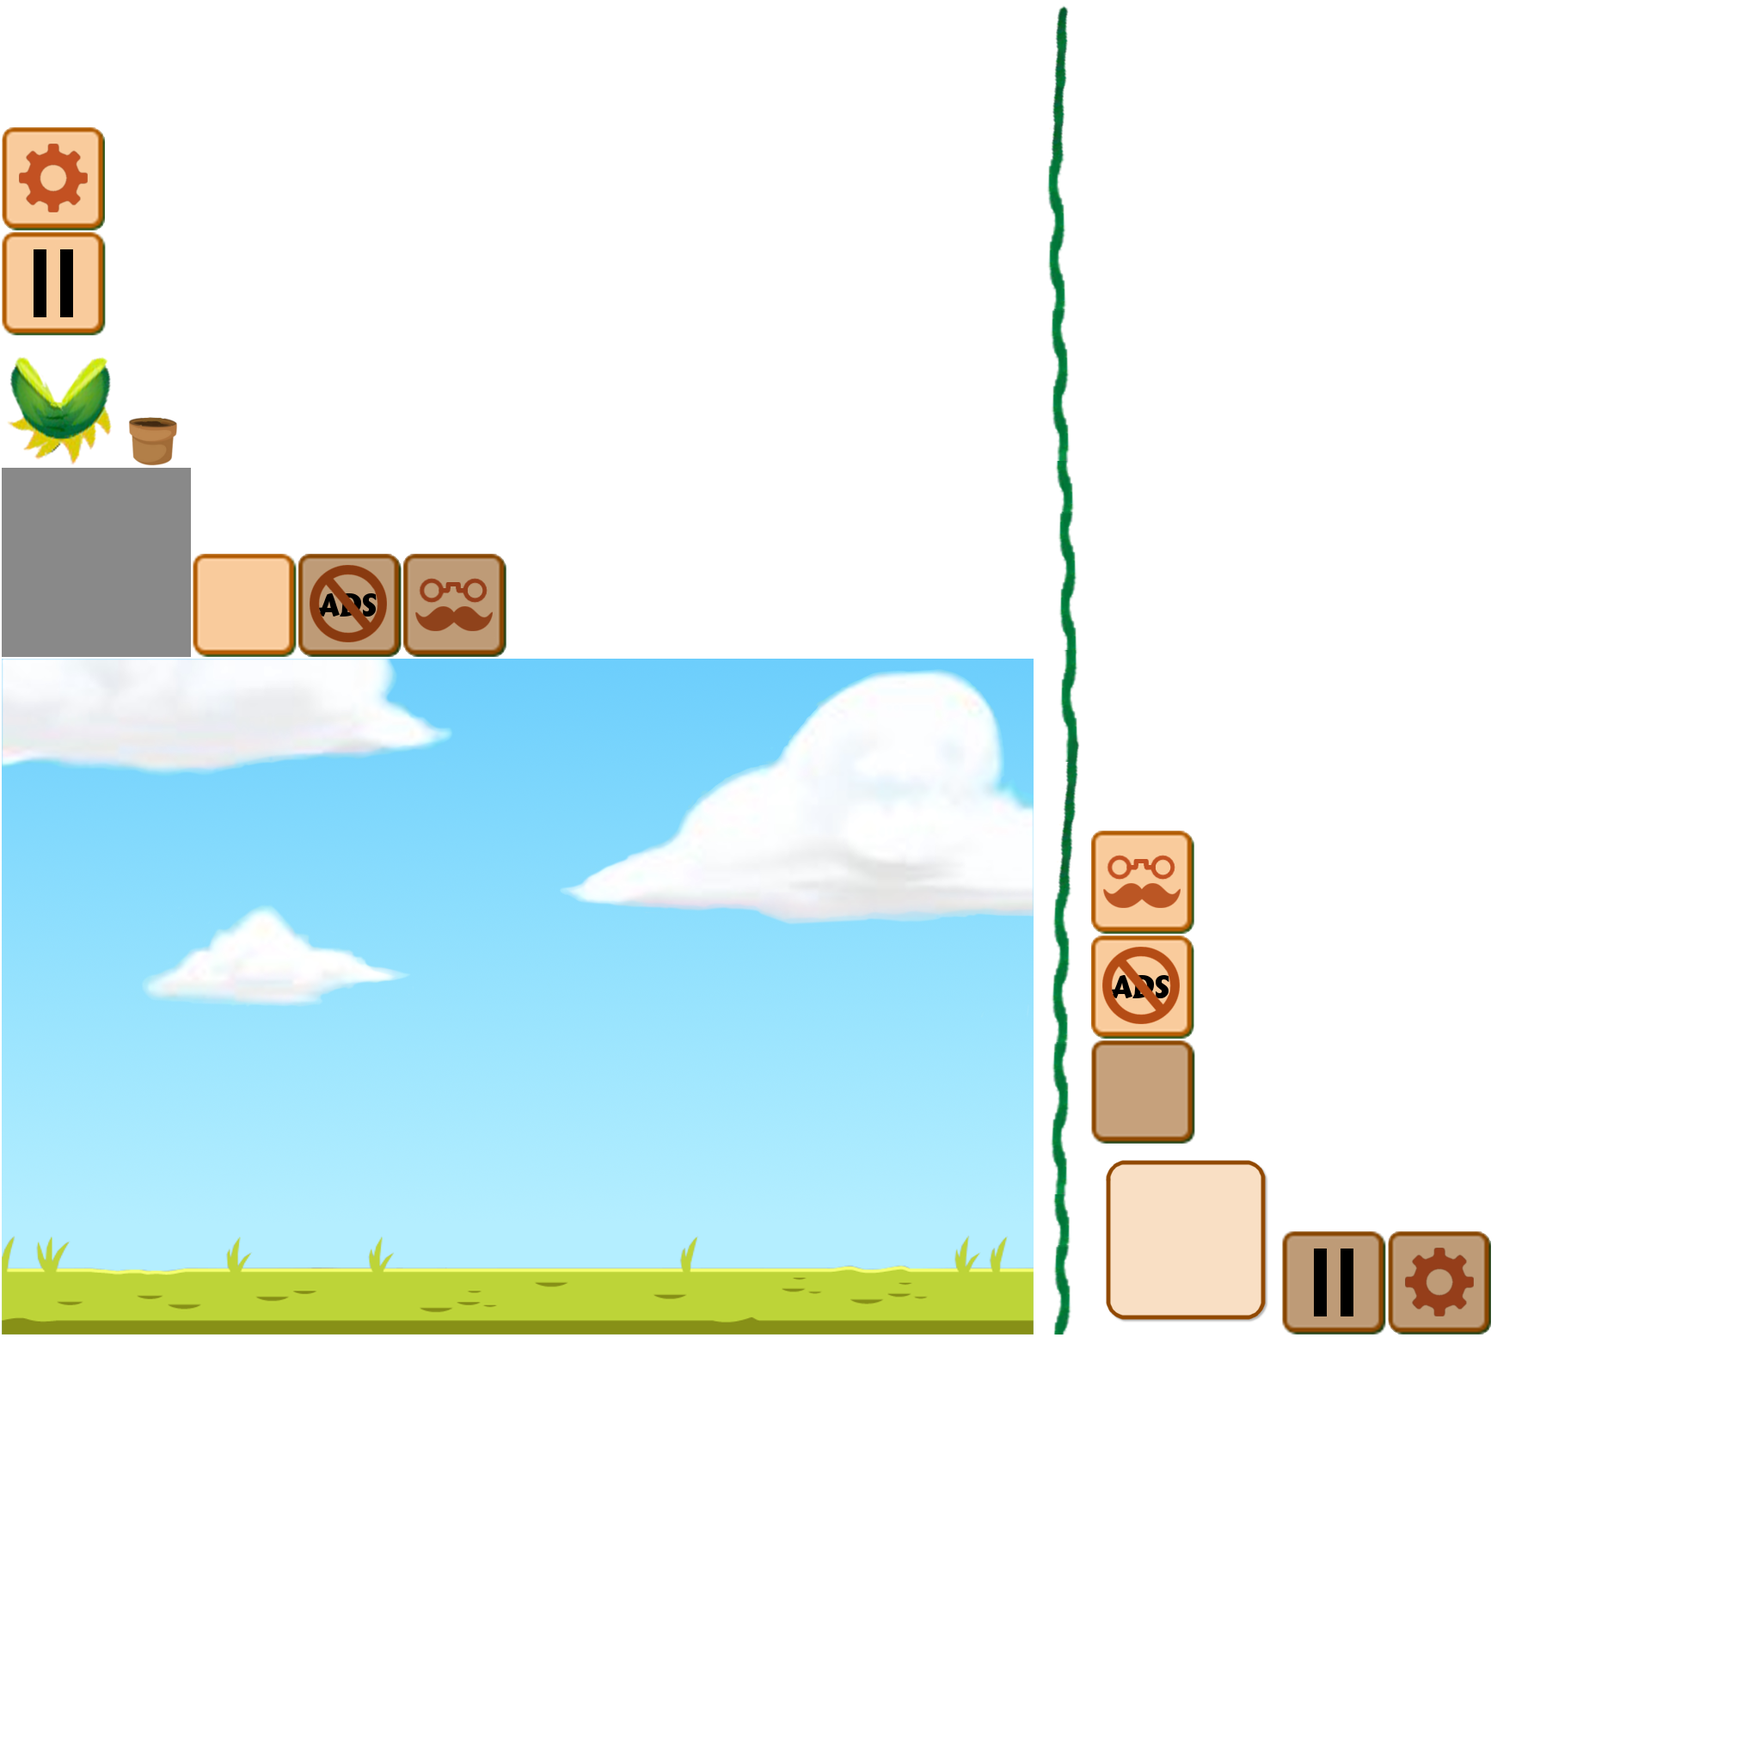
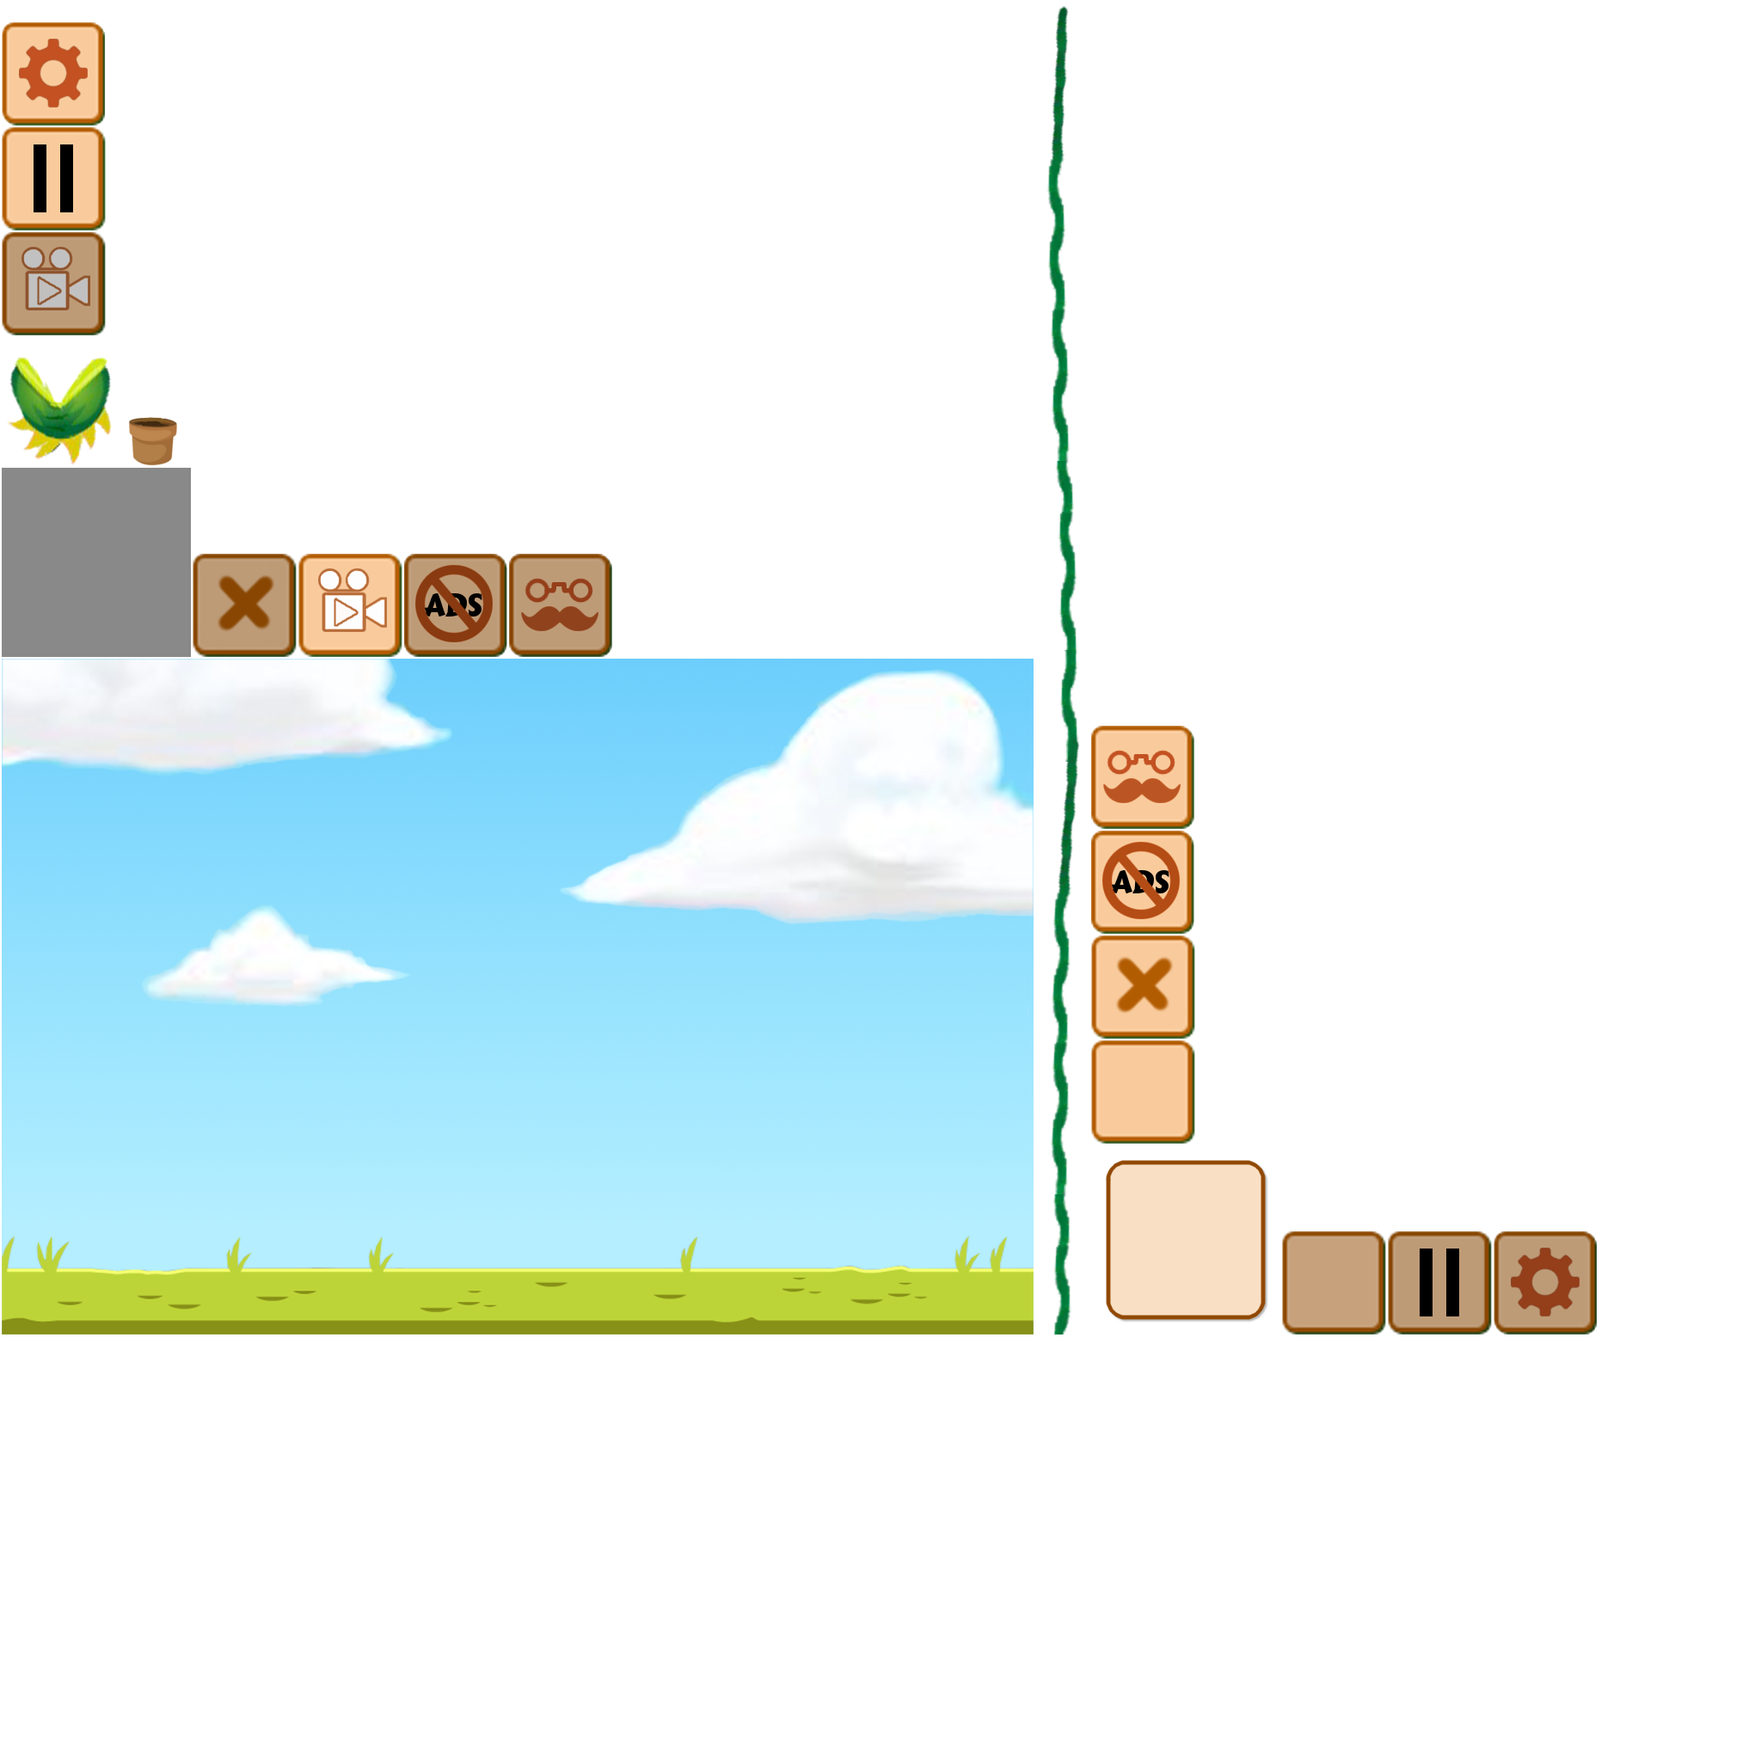
* Bug Fixed: Resumes after dead

diff --git a/core/src/game/stages/GameScreenScript.java b/core/src/game/stages/GameScreenScript.java
@@ -42,9 +42,14 @@ public class GameScreenScript implements IScript {
     public int dandelionSpawnCounter;
     public int cacoonSpawnCounter;
 
+    private int aniTimer = 0;
+    private String aniName;
+    private boolean isPlayAny = false;
     private boolean pausePressed = false;
     private CompositeItem pausePopUp;
+    private CompositeItem gameoverPopUp;
     private CompositeItem backShadow;
+    private int gameOverCountDown = 300;
 
     public GameScreenScript(GameStage stage) {
         this.stage = stage;
@@ -56,10 +61,19 @@ public class GameScreenScript implements IScript {
 
         pausePopUp = gameItem.getCompositeById("pop-up_pause");
         pausePopUp.setVisible(false);
+        gameoverPopUp = gameItem.getCompositeById("pop-up_gameover");
+        gameoverPopUp.setVisible(false);
         backShadow = gameItem.getCompositeById("backShadow");
         backShadow.setVisible(false);
+        pausePopUp.setColor(1,1,1,0);
+        gameoverPopUp.setColor(1,1,1,0);
+        backShadow.setColor(1,1,1,0);
+
         dandelionSpawnCounter = random.nextInt(GlobalConstants.DANDELION_SPAWN_CHANCE_MAX - GlobalConstants.DANDELION_SPAWN_CHANCE_MIN) + GlobalConstants.DANDELION_SPAWN_CHANCE_MIN;
         cacoonSpawnCounter = random.nextInt(GlobalConstants.COCOON_SPAWN_MAX - GlobalConstants.COCOON_SPAWN_MIN) + GlobalConstants.COCOON_SPAWN_MIN;
+
+        final CompositeItem gameoverPopUpCloseBtn = gameoverPopUp.getCompositeById("btn_close");
+        final CompositeItem gameoverPopUpVideoBtn = gameoverPopUp.getCompositeById("btn_vid");
         final CompositeItem pausePopUpContBtn = pausePopUp.getCompositeById("btn_continue");
         final CompositeItem pausePopUpExitBtn = pausePopUp.getCompositeById("btn_exit");
         final CompositeItem btnPause = gameItem.getCompositeById("btn_pause");
@@ -70,10 +84,8 @@ public class GameScreenScript implements IScript {
                     pointer, int button) {
                 btnPause.setLayerVisibilty("normal", false);
                 btnPause.setLayerVisibilty("pressed", true);
-                pausePopUp.setVisible(true);
-                backShadow.setVisible(true);
+                playUIAnimation(100, "pauseAppear");
 
-                GlobalConstants.GAME_PAUSED = true;
                 pausePressed = true;
 
                 return true;
@@ -92,10 +104,7 @@ public class GameScreenScript implements IScript {
                     pointer, int button) {
                 pausePopUpContBtn.setLayerVisibilty("normal", false);
                 pausePopUpContBtn.setLayerVisibilty("pressed", true);
-                pausePopUp.setVisible(false);
-                backShadow.setVisible(false);
-
-                GlobalConstants.GAME_PAUSED = false;
+                playUIAnimation(100, "pauseDisappear");
 
                 return true;
             }
@@ -113,11 +122,7 @@ public class GameScreenScript implements IScript {
                     pointer, int button) {
                 pausePopUpExitBtn.setLayerVisibilty("normal", false);
                 pausePopUpExitBtn.setLayerVisibilty("pressed", true);
-                pausePopUp.setVisible(false);
-                backShadow.setVisible(false);
-
-                stage.initMenu();
-                GlobalConstants.GAME_PAUSED = false;
+                playUIAnimation(100, "pauseExit");
 
                 return true;
             }
@@ -125,7 +130,43 @@ public class GameScreenScript implements IScript {
                                  int button) {
                 pausePopUpExitBtn.setLayerVisibilty("normal", true);
                 pausePopUpExitBtn.setLayerVisibilty("pressed", false);
+//
+                pausePressed = false;
+            }
+        });
+        gameoverPopUpVideoBtn.addListener(new ClickListener(){
+            // Need to keep touch down in order for touch up to work normal (libGDX awkwardness)
+            public boolean touchDown (InputEvent event, float x, float y, int
+                    pointer, int button) {
+                gameoverPopUpVideoBtn.setLayerVisibilty("normal", false);
+                gameoverPopUpVideoBtn.setLayerVisibilty("pressed", true);
+                playUIAnimation(100, "gameoverDisappear");
 
+                return true;
+            }
+            public void touchUp (InputEvent event, float x, float y, int pointer,
+                                 int button) {
+                gameoverPopUpVideoBtn.setLayerVisibilty("normal", true);
+                gameoverPopUpVideoBtn.setLayerVisibilty("pressed", false);
+
+                pausePressed = false;
+            }
+        });
+        gameoverPopUpCloseBtn.addListener(new ClickListener(){
+            // Need to keep touch down in order for touch up to work normal (libGDX awkwardness)
+            public boolean touchDown (InputEvent event, float x, float y, int
+                    pointer, int button) {
+                gameoverPopUpCloseBtn.setLayerVisibilty("normal", false);
+                gameoverPopUpCloseBtn.setLayerVisibilty("pressed", true);
+                playUIAnimation(100, "gameoverExit");
+
+                return true;
+            }
+            public void touchUp (InputEvent event, float x, float y, int pointer,
+                                 int button) {
+                gameoverPopUpCloseBtn.setLayerVisibilty("normal", true);
+                gameoverPopUpCloseBtn.setLayerVisibilty("pressed", false);
+//
                 pausePressed = false;
             }
         });
@@ -138,12 +179,141 @@ public class GameScreenScript implements IScript {
 
     @Override
     public void act(float delta) {
+        if(isPlayAny){
+            // Don't touch this
+            aniTimer--;
+            //
+
+            // Play gameover pop-up appear animation
+            if(aniName == "gameoverAppear"){
+                gameoverPopUp.setVisible(true);
+                backShadow.setVisible(true);
+
+                if(gameoverPopUp.getColor().a<1){
+                    gameoverPopUp.setColor(1,1,1,gameoverPopUp.getColor().a+0.1f); // Some sort of a formula would be good here
+                    backShadow.setColor(1,1,1,backShadow.getColor().a+0.1f); // like a formula that replaces 0.1f with a portion of aniTimer
+                }
+                if(gameoverPopUp.getColor().a==1){
+                    GlobalConstants.GAME_PAUSED = true;
+                }
+            }
+            //
+
+            // Play gameover pop-up disappear animation
+            if(aniName == "gameoverDisappear"){
+                if(gameoverPopUp.getColor().a>0){
+                    gameoverPopUp.setColor(1,1,1,gameoverPopUp.getColor().a-0.1f);
+                    backShadow.setColor(1,1,1,backShadow.getColor().a-0.1f);
+                }
+                if(gameoverPopUp.getColor().a==0){
+                    GlobalConstants.GAME_PAUSED = false;
+                    gameoverPopUp.setVisible(false);
+                    backShadow.setVisible(false);
+
+                    flower.setCurHp(3);
+                    gameOverCountDown = 300;
+                }
+            }
+            //
+
+            // Play gameover pop-up disappear animation with Exit
+            if(aniName == "gameoverExit"){
+                if(gameoverPopUp.getColor().a>0){
+                    gameoverPopUp.setColor(1,1,1,gameoverPopUp.getColor().a-0.1f);
+                    backShadow.setColor(1,1,1,backShadow.getColor().a-0.1f);
+                }
+                if(gameoverPopUp.getColor().a==0){
+                    GlobalConstants.GAME_PAUSED = false;
+                    gameoverPopUp.setVisible(false);
+                    backShadow.setVisible(false);
+
+                    flower.setCurHp(3);
+                    stage.initMenu();
+                    isPlayAny = false; // this is bad, think of a formula!
+                }
+            }
+            //
+
+            // Play pause pop-up appear animation
+            if(aniName == "pauseAppear"){
+                pausePopUp.setVisible(true);
+                backShadow.setVisible(true);
+
+                if(pausePopUp.getColor().a<1){
+                    pausePopUp.setColor(1,1,1,pausePopUp.getColor().a+0.1f); // Some sort of a formula would be good here
+                    backShadow.setColor(1,1,1,backShadow.getColor().a+0.1f); // like a formula that replaces 0.1f with a portion of aniTimer
+                }
+                if(pausePopUp.getColor().a==1){
+                    GlobalConstants.GAME_PAUSED = true;
+                }
+            }
+            //
+
+            // Play pause pop-up disappear animation
+            if(aniName == "pauseDisappear"){
+                if(pausePopUp.getColor().a>0){
+                    pausePopUp.setColor(1,1,1,pausePopUp.getColor().a-0.1f);
+                    backShadow.setColor(1,1,1,backShadow.getColor().a-0.1f);
+                }
+                if(pausePopUp.getColor().a==0){
+                    GlobalConstants.GAME_PAUSED = false;
+                    pausePopUp.setVisible(false);
+                    backShadow.setVisible(false);
+                }
+            }
+            //
+
+            // Play pause disappear animation with Exit
+            if(aniName == "pauseExit"){
+                if(pausePopUp.getColor().a>0){
+                    pausePopUp.setColor(1,1,1,pausePopUp.getColor().a-0.1f);
+                    backShadow.setColor(1,1,1,backShadow.getColor().a-0.1f);
+                }
+                if(pausePopUp.getColor().a==0){
+                    GlobalConstants.GAME_PAUSED = false;
+                    pausePopUp.setVisible(false);
+                    backShadow.setVisible(false);
+
+                    stage.initMenu();
+                    isPlayAny = false; // this is bad, think of a formula!
+                }
+            }
+            //
+
+            // Don't touch this
+            if(aniTimer<=0){
+                isPlayAny = false;
+            }
+            //
+        }
         for(Bug bug : bugs){
             if (bug.getController().isOutOfBounds() && flower.getCurHp()<=0){
-                GlobalConstants.GAME_OVER = true;
+                GlobalConstants.GAME_PAUSED = true;
             }
         }
-        if(!GlobalConstants.GAME_PAUSED) {
+        if(flower.getCurHp()<=0 && !gameoverPopUp.isVisible()){
+            playUIAnimation(100, "gameoverAppear");
+
+        }
+        if(flower.getCurHp()<=0) {
+            gameOverCountDown--;
+            if (gameOverCountDown > 241) {
+                gameoverPopUp.getLabelById("pop-up_gameover_timer_txt").setText("5");
+            } else if (gameOverCountDown > 181 && gameOverCountDown < 240) {
+                gameoverPopUp.getLabelById("pop-up_gameover_timer_txt").setText("4");
+            } else if (gameOverCountDown > 121 && gameOverCountDown < 180) {
+                gameoverPopUp.getLabelById("pop-up_gameover_timer_txt").setText("3");
+            } else if (gameOverCountDown > 61 && gameOverCountDown < 120) {
+                gameoverPopUp.getLabelById("pop-up_gameover_timer_txt").setText("2");
+            } else if (gameOverCountDown > 0 && gameOverCountDown < 60) {
+                gameoverPopUp.getLabelById("pop-up_gameover_timer_txt").setText("1");
+            } else if (gameOverCountDown <= 0) {
+                gameoverPopUp.getLabelById("pop-up_gameover_timer_txt").setText("0");
+                playUIAnimation(100, "gameoverExit");
+            }
+        }
+
+        if(!GlobalConstants.GAME_PAUSED && !GlobalConstants.GAME_OVER && GlobalConstants.CUR_SCREEN == "GAME") {
             timer++;
             dandelionSpawnCounter--;
             cacoonSpawnCounter--;
@@ -174,6 +344,12 @@ public class GameScreenScript implements IScript {
 
             CollisionChecker.checkCollisions(stage);
         }
+    }
+
+    private void playUIAnimation(int timer, String name){
+        isPlayAny = true;
+        aniTimer = timer;
+        aniName = name;
     }
 
     private void reloadBugs() {

diff --git a/core/src/game/stages/GameStage.java b/core/src/game/stages/GameStage.java
@@ -5,6 +5,7 @@ import com.uwsoft.editor.renderer.Overlap2DStage;
 import com.uwsoft.editor.renderer.actor.CompositeItem;
 import com.uwsoft.editor.renderer.resources.ResourceManager;
 import game.actors.*;
+import game.utils.GlobalConstants;
 
 /**
  * Created by Teatree on 5/25/2015.
@@ -32,6 +33,7 @@ public class GameStage extends Overlap2DStage {
         addActor(sceneLoader.sceneActor);
 
         Flower.init(this, sceneLoader);
+        GlobalConstants.CUR_SCREEN = "GAME";
     }
 
     public void initMenu(){
@@ -39,6 +41,7 @@ public class GameStage extends Overlap2DStage {
         MenuScreenScript menu = new MenuScreenScript(this);
         sceneLoader.sceneActor.addScript(menu);
         addActor(sceneLoader.sceneActor);
+        GlobalConstants.CUR_SCREEN = "MENU";
     }
 
     public void initShopMenu(){
@@ -46,6 +49,7 @@ public class GameStage extends Overlap2DStage {
         ShopScreenScript shop = new ShopScreenScript(this);
         sceneLoader.sceneActor.addScript(shop);
         addActor(sceneLoader.sceneActor);
+        GlobalConstants.CUR_SCREEN = "SHOP";
     }
 
     public void update() {

diff --git a/core/src/game/actors/controllers/BeeBugController.java b/core/src/game/actors/controllers/BeeBugController.java
@@ -26,7 +26,7 @@ public class BeeBugController extends BugController implements IScript  {
 //        item.setX(0);
 //        item.setY(startYPosition -100);
 
-        spriterActor = item.getSpriterActorById("beeBug");
+        spriterActor = item.getSpriterActorById("BeeBug");
 
         item.setOrigin(item.getWidth() / 2, 0);
     }

diff --git a/core/src/game/actors/controllers/QueenBeeBugController.java b/core/src/game/actors/controllers/QueenBeeBugController.java
@@ -23,7 +23,7 @@ public class QueenBeeBugController extends SimpleBugController implements IScrip
 
         boundsRect = new Rectangle();
 
-        spriterActor = item.getSpriterActorById("drunkBug");
+        spriterActor = item.getSpriterActorById("QueenBeeBug");
 
         item.setOrigin(item.getWidth() / 2, 0);
     }

diff --git a/core/src/game/stages/MenuScreenScript.java b/core/src/game/stages/MenuScreenScript.java
@@ -8,6 +8,7 @@ import com.uwsoft.editor.renderer.actor.CompositeItem;
 import com.uwsoft.editor.renderer.actor.ImageItem;
 import com.uwsoft.editor.renderer.actor.SpriterActor;
 import com.uwsoft.editor.renderer.script.IScript;
+import game.utils.GlobalConstants;
 
 /**
  * Created by Teatree on 7/25/2015.

diff --git a/core/src/game/actors/controllers/FlowerController.java b/core/src/game/actors/controllers/FlowerController.java
@@ -42,6 +42,7 @@ public class FlowerController implements IScript {
     @Override
     public void init(CompositeItem item) {
         this.item = item;
+
         item.setX(Gdx.graphics.getWidth() - 200);
         item.setY(0);
         item.setOrigin(item.getWidth() / 2, 0);

diff --git a/core/src/game/actors/controllers/SimpleBugController.java b/core/src/game/actors/controllers/SimpleBugController.java
@@ -28,7 +28,6 @@ public class SimpleBugController extends BugController implements IScript  {
         points = 10;
 
         boundsRect = new Rectangle();
-        spriterActor = item.getSpriterActorById("chargerBug");
 
         item.setOrigin(item.getWidth() / 2, 0);
     }

diff --git a/core/src/game/utils/GlobalConstants.java b/core/src/game/utils/GlobalConstants.java
@@ -26,6 +26,7 @@ public abstract class GlobalConstants {
 
     public static final int DEFAULT_MAX_HP = 2;
 
+    public static String CUR_SCREEN = "MENU";
     public static boolean GAME_OVER = false;
     public static boolean GAME_PAUSED = false;
 
